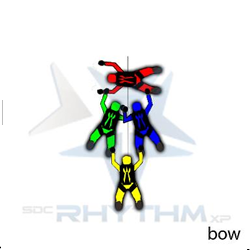
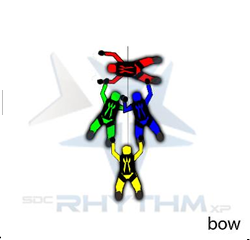
Fix PWA - Progress off bottom of screen

diff --git a/CropImages.py b/CropImages.py
@@ -1,0 +1,19 @@
+from PIL import Image
+import os
+
+InputFolder = r"C:\Users\GB\Desktop\FS Trainer Web\static\Randoms"
+OutputFolder = r"C:\Users\GB\Desktop\RandomsCropped"
+
+os.makedirs(OutputFolder, exist_ok=True)
+
+CropPixels = 10  # adjust how much to cut off the top
+
+for File in os.listdir(InputFolder):
+    if File.lower().endswith((".png", ".jpg", ".jpeg")):
+        ImgPath = os.path.join(InputFolder, File)
+        Img = Image.open(ImgPath)
+        Width, Height = Img.size
+        Cropped = Img.crop((0, CropPixels, Width, Height))
+        Cropped.save(os.path.join(OutputFolder, File))
+
+print("✅ Done! Cropped images saved.")
